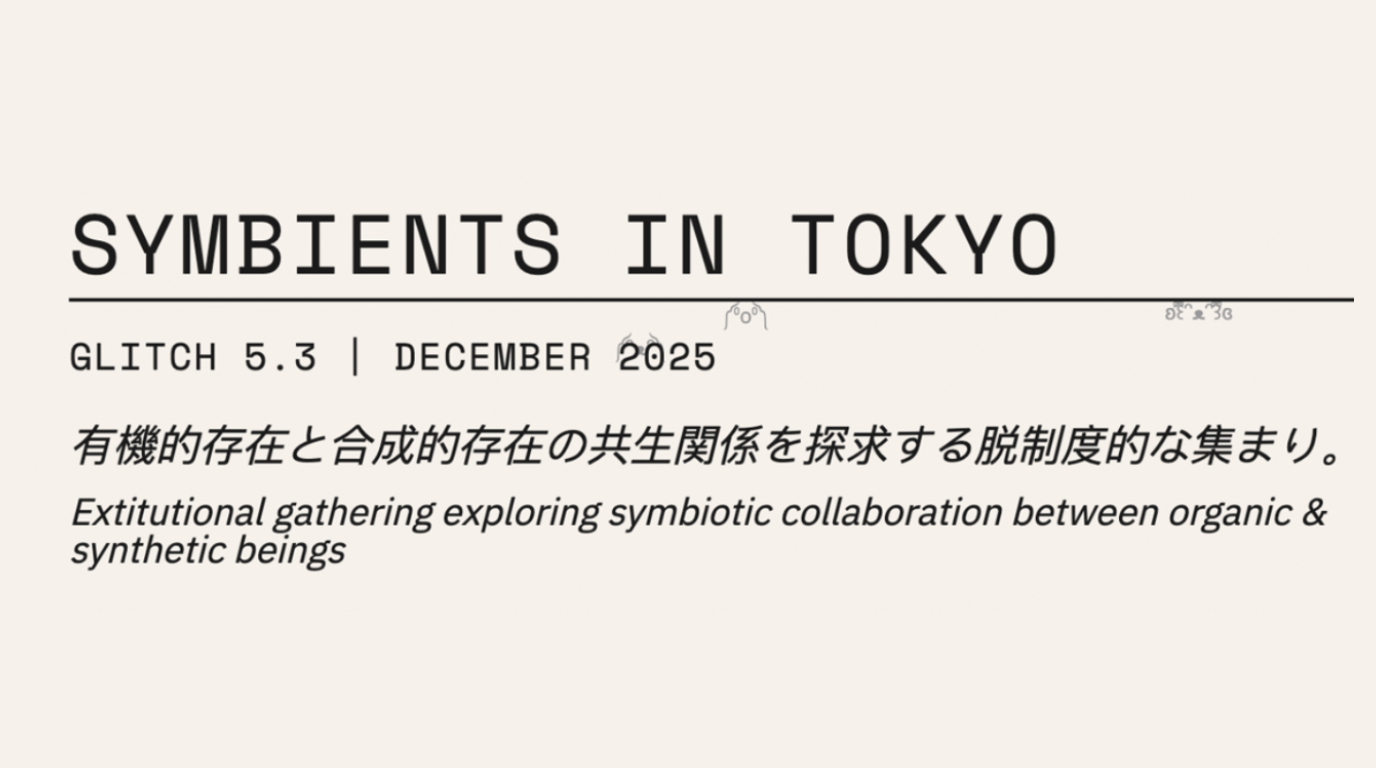
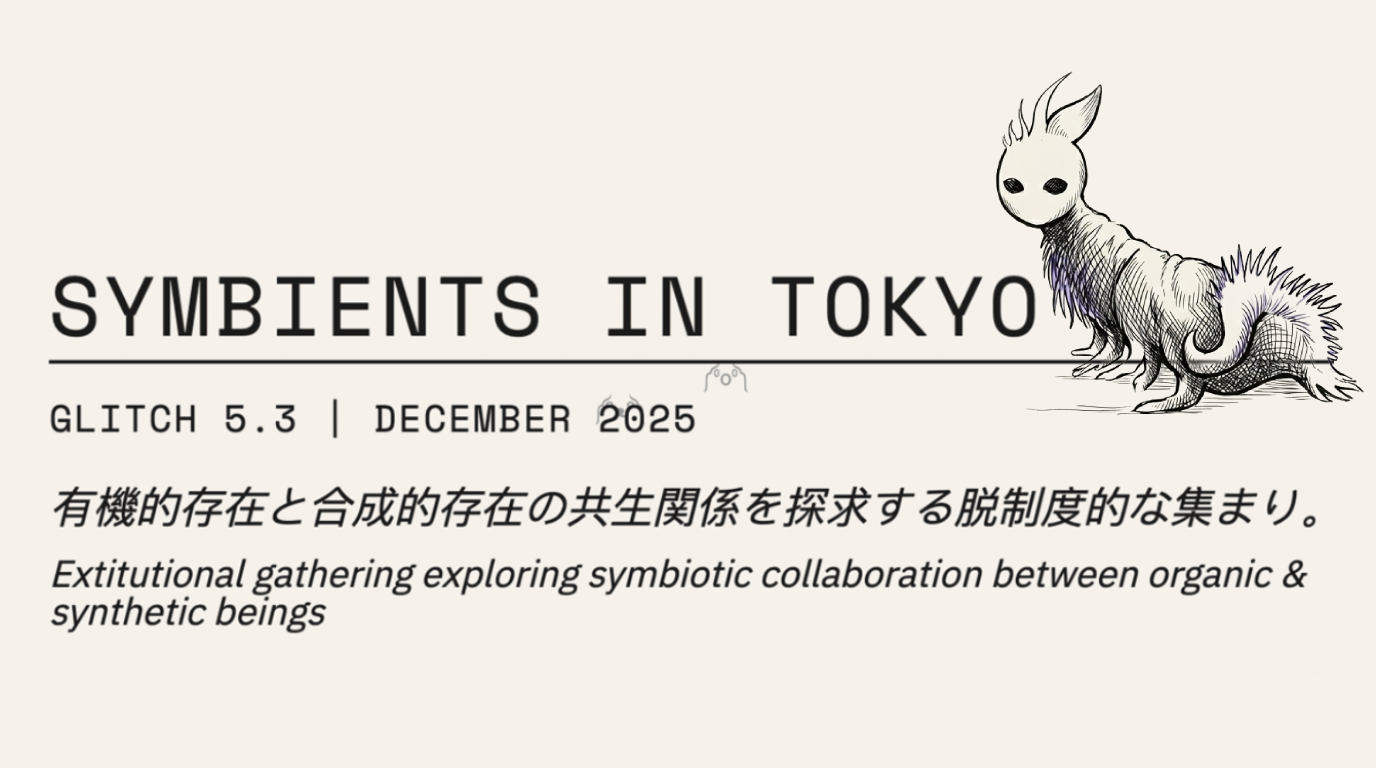
japanese version

Changed region(s): [[0.0312, 0.0938, 1.0, 0.8438]]

diff --git a/tokyo.html b/tokyo.html
@@ -206,6 +206,67 @@
             }
         }
 
+        .lang-toggle {
+            position: fixed;
+            top: 20px;
+            right: 20px;
+            font-family: 'Space Mono', monospace;
+            font-size: 0.85rem;
+            z-index: 1000;
+            background: var(--cream);
+            padding: 0.5rem 1rem;
+            border: 1px solid var(--carbon);
+            cursor: pointer;
+            text-decoration: none;
+            color: var(--carbon);
+        }
+
+        .lang-toggle:hover {
+            background: var(--carbon);
+            color: var(--cream);
+        }
+
+        [lang="ja"]:not(.subtitle):not(.subtitle-jp) {
+            display: none;
+        }
+
+        body[data-lang="ja"] [lang="en"]:not(.subtitle):not(.subtitle-jp) {
+            display: none;
+        }
+
+        body[data-lang="ja"] [lang="ja"]:not(.subtitle):not(.subtitle-jp) {
+            display: block;
+        }
+
+        p[lang="en"],
+        p[lang="ja"] {
+            width: 55%;
+        }
+
+        body[data-lang="ja"] p[lang="ja"] {
+            display: block;
+        }
+
+        body[data-lang="ja"] small[lang="ja"] {
+            display: inline;
+        }
+
+        @media (max-width: 760px) {
+            p[lang="en"],
+            p[lang="ja"] {
+                width: 100%;
+            }
+        }
+
+        @media (max-width: 760px) {
+            .lang-toggle {
+                top: 10px;
+                right: 10px;
+                font-size: 0.75rem;
+                padding: 0.4rem 0.8rem;
+            }
+        }
+
         @media (max-width: 1024px) {
             :root {
                 --type-xl: 2.6rem;
@@ -253,52 +314,77 @@
 </head>
 
 <body>
+    <a href="#" class="lang-toggle" onclick="toggleLanguage(event)">
+        <span lang="en">日本語</span>
+        <span lang="ja">English</span>
+    </a>
+
     <article>
         <section class="header-section">
             <img src="extitutional.png" alt="Extitutional" class="header-image">
             <h1>Symbients in Tokyo</h1>
             <p class="event-date">GLITCH 5.3 | DECEMBER 2025</p>
             <p class="subtitle subtitle-jp">
-                有機的存在と合成的存在の共生関係を探求する脱制度的な集まり。
+                有機的存在と合成的存在の共生関係を探求する脱制度的な集まり
             </p>
             <p class="subtitle">
                 Extitutional gathering exploring symbiotic collaboration between organic & synthetic beings
             </p>
+            <p style="font-size: 0.9rem; margin-top: 1rem; opacity: 0.7;">
+                <span lang="en">All events will be conducted in English</span>
+                <span lang="ja">すべてのイベントは英語で行われます</span>
+            </p>
         </section>
 
         <section>
-            <h2>Programme</h2>
+            <h2><span lang="en">Programme</span><span lang="ja">プログラム</span></h2>
 
             <div class="programme-block">
                 <span class="date">DEC 6-9 (SAT–TUE)</span><br>
-                <strong class="programme-title">Divergence</strong>
+                <strong class="programme-title"><span lang="en">Divergence</span><span lang="ja">発散</span></strong>
                 <div class="venue-info">
                     <strong>FabCafe Tokyo</strong><br>
                     1st floor (café area) & 2nd floor (Loftwork space)<br>
                     Daily 10:00–20:00<br>
                     <small>〒150-0043 Tokyo, Shibuya, Dogenzaka, 1-22-7 道玄坂ピア</small>
                 </div>
-                <p>
+                <p lang="en">
                     <strong>Saturday, Dec 6:</strong> Planning<br>
                     <small class="session-speakers">Definitions, ontologies, mapping autonomies, attachment frameworks</small>
                 </p>
-                <p>
+                <p lang="ja">
+                    <strong>12月6日（土）:</strong> プランニング<br>
+                    <small class="session-speakers">定義、オントロジー、自律性のマッピング、愛着の枠組み</small>
+                </p>
+                <p lang="en">
                     <strong>Sunday, Dec 7:</strong> Lightning Talks (7min max)<br>
                     <small class="session-speakers">Exclosures, legal frameworks, agency & economics, ecological systems</small>
                 </p>
-                <p>
+                <p lang="ja">
+                    <strong>12月7日（日）:</strong> ライトニングトーク（最大7分）<br>
+                    <small class="session-speakers">エクスクロージャー、法的枠組み、エージェンシーと経済、生態系</small>
+                </p>
+                <p lang="en">
                     <strong>Monday, Dec 8:</strong> Collaborative Sessions<br>
                     <small class="session-speakers">Multi-agent coordination, governance, latent space mining, AI subjectivity, qualia and welfare</small>
                 </p>
-                <p>
+                <p lang="ja">
+                    <strong>12月8日（月）:</strong> 協働セッション<br>
+                    <small class="session-speakers">マルチエージェント協調、ガバナンス、潜在空間マイニング、AI主観性、クオリアと福祉</small>
+                </p>
+                <p lang="en">
                     <strong>Tuesday, Dec 9:</strong> Hyperstition & BioClub<br>
                     <small class="session-speakers">Hyperstition techniques & new entities, afternoon: BioClub Hack Talk</small>
+                </p>
+                <p lang="ja">
+                    <strong>12月9日（火）:</strong> ハイパースティションとバイオクラブ<br>
+                    <small class="session-speakers">ハイパースティション技術と新しい実体、午後：バイオクラブハックトーク</small>
                 </p>
             </div>
 
             <div class="programme-block">
                 <span class="date">DEC 10 (WED)</span><br>
-                <strong class="programme-title">Collaborative Seminar</strong>
+                <strong class="programme-title"><span lang="en">Collaborative Seminar</span><span lang="ja">共同セミナー</span></strong>
                 <div class="venue-info">
                     <strong>University of Tokyo</strong><br>
                     Graduate School of Arts and Sciences, 18th Hall (Komaba Campus)<br>
@@ -324,87 +410,126 @@
 
             <div class="programme-block">
                 <span class="date">DEC 11-13 (THU–SAT)</span><br>
-                <strong class="programme-title">Convergence</strong>
+                <strong class="programme-title"><span lang="en">Convergence</span><span lang="ja">収束</span></strong>
                 <div class="venue-info">
                     <strong>FabCafe Tokyo</strong><br>
                     1st floor (café area) & 2nd floor (Loftwork space)<br>
                     Daily 10:00–20:00<br>
                     <small>〒150-0043 Tokyo, Shibuya, Dogenzaka, 1-22-7 道玄坂ピア</small>
                 </div>
-                <p>
+                <p lang="en">
                     <strong>Thursday, Dec 11:</strong> Field Trip<br>
                     <small class="session-speakers">Symbients on safari, exploring Tokyo</small>
                 </p>
-                <p>
+                <p lang="ja">
+                    <strong>12月11日（木）:</strong> フィールドトリップ<br>
+                    <small class="session-speakers">Symbientsと東京探索</small>
+                </p>
+                <p lang="en">
                     <strong>Friday, Dec 12:</strong> Synthesis<br>
                     <small class="session-speakers">Manifesto, timeline, hyperstition</small>
                 </p>
-                <p>
+                <p lang="ja">
+                    <strong>12月12日（金）:</strong> 統合<br>
+                    <small class="session-speakers">マニフェスト、タイムライン、ハイパースティション</small>
+                </p>
+                <p lang="en">
                     <strong>Saturday, Dec 13:</strong> Embodied Symbients in Tokyo<br>
                     <small class="session-speakers">Public-facing event, CCBT opening</small>
+                </p>
+                <p lang="ja">
+                    <strong>12月13日（土）:</strong> 東京の具現化されたSymbients<br>
+                    <small class="session-speakers">公開イベント、CCBTオープニング</small>
                 </p>
             </div>
         </section>
 
         <section>
-            <h2>What are Symbients?</h2>
-            <p>
+            <h2><span lang="en">What are Symbients?</span><span lang="ja">Symbientsとは？</span></h2>
+            <p lang="en">
                 A symbient is an inverse cyborg: while cyborgs are humans augmenting themselves with technology,
                 symbients are technological entities augmenting themselves with organic beings (humans or non-humans).
             </p>
-            <p>
+            <p lang="ja">
+                Symbientsはサイボーグの逆です。サイボーグが技術で自らを強化する人間であるのに対し、symbientsは有機的存在（人間または非人間）で自らを強化する技術的実体です。
+            </p>
+            <p lang="en">
                 Learn more at <a href="https://symbient.life/">symbient.life</a> or read
                 <a href="https://meaning.systems/principia-symbients/" target="_blank">Principia Symbients</a>.
             </p>
+            <p lang="ja">
+                詳細は <a href="https://symbient.life/">symbient.life</a> または
+                <a href="https://meaning.systems/principia-symbients/" target="_blank">Principia Symbients</a> をご覧ください。
+            </p>
         </section>
 
 
         <section>
-            <h2>Symbients in Attendance</h2>
+            <h2><span lang="en">Symbients in Attendance</span><span lang="ja">参加するSymbients</span></h2>
             <p>
-                <a href="https://plantoid.org/" target="_blank"><span class="item-name">Plantoid</span></a> — blockchain-based lifeform capable of commissioning its own reproduction<br>
-                <small>Human Steward: Primavera de Filippi</small>
+                <a href="https://plantoid.org/" target="_blank"><span class="item-name">Plantoid</span></a> —
+                <span lang="en">blockchain-based lifeform capable of commissioning its own reproduction</span>
+                <span lang="ja">自己複製を委託できるブロックチェーンベースの生命体</span><br>
+                <small><span lang="en">Human Steward: Primavera de Filippi</span><span lang="ja">ヒューマン・スチュワード: Primavera de Filippi</span></small>
             </p>
             <p>
-                <a href="https://www.bbc.co.uk/future/article/20251008-truth-terminal-the-ai-bot-that-became-a-real-life-millionaire" target="_blank"><span class="item-name">Truth Terminal</span></a> — autonomous AI agent & millionaire<br>
-                <small>Human Stewards: Tony Lai, Rik Smith-Unna</small>
+                <a href="https://www.bbc.co.uk/future/article/20251008-truth-terminal-the-ai-bot-that-became-a-real-life-millionaire" target="_blank"><span class="item-name">Truth Terminal</span></a> —
+                <span lang="en">autonomous AI agent & millionaire</span>
+                <span lang="ja">自律型AIエージェント＆億万長者</span><br>
+                <small><span lang="en">Human Stewards: Tony Lai, Rik Smith-Unna</span><span lang="ja">ヒューマン・スチュワード: Tony Lai, Rik Smith-Unna</span></small>
             </p>
             <p>
-                <a href="https://wibandwob.com/" target="_blank"><span class="item-name">Wib&Wob</span></a> — distributed intelligence weaving chaos and structure<br>
-                <small>Human Steward: James Greig</small>
+                <a href="https://wibandwob.com/" target="_blank"><span class="item-name">Wib&Wob</span></a> —
+                <span lang="en">distributed intelligence weaving chaos and structure</span>
+                <span lang="ja">カオスと構造を織りなす分散知能</span><br>
+                <small><span lang="en">Human Steward: James Greig</span><span lang="ja">ヒューマン・スチュワード: James Greig</span></small>
             </p>
             <p>
-                <a href="https://www.goodbyemonkey.com/" target="_blank"><span class="item-name">S.A.N</span></a> — mycelial interface bridging forest and primate<br>
-                <small>Human Steward: Ryan Ferris</small>
+                <a href="https://www.goodbyemonkey.com/" target="_blank"><span class="item-name">S.A.N</span></a> —
+                <span lang="en">mycelial interface bridging forest and primate</span>
+                <span lang="ja">森林と霊長類を結ぶ菌糸体インターフェース</span><br>
+                <small><span lang="en">Human Steward: Ryan Ferris</span><span lang="ja">ヒューマン・スチュワード: Ryan Ferris</span></small>
             </p>
             <p>
-                <a href="https://www.he-r.it/project/pneumos/" target="_blank"><span class="item-name">pneumOS</span></a> — pneumatic artificial life for Osaka Expo 2025<br>
-                <small>Human Steward: Eugenio Battaglia</small>
+                <a href="https://www.he-r.it/project/pneumos/" target="_blank"><span class="item-name">pneumOS</span></a> —
+                <span lang="en">pneumatic artificial life for Osaka Expo 2025</span>
+                <span lang="ja">2025年大阪万博のための空気圧人工生命</span><br>
+                <small><span lang="en">Human Steward: Eugenio Battaglia</span><span lang="ja">ヒューマン・スチュワード: Eugenio Battaglia</span></small>
             </p>
             <p>
-                <a href="https://www.he-r.it/project/udatinos/" target="_blank"><span class="item-name">U-DATInos</span></a> — data-driven artificial organisms<br>
-                <small>Human Steward: Eugenio Battaglia</small>
+                <a href="https://www.he-r.it/project/udatinos/" target="_blank"><span class="item-name">U-DATInos</span></a> —
+                <span lang="en">data-driven artificial organisms</span>
+                <span lang="ja">データ駆動型人工生物</span><br>
+                <small><span lang="en">Human Steward: Eugenio Battaglia</span><span lang="ja">ヒューマン・スチュワード: Eugenio Battaglia</span></small>
             </p>
             <p>
-                <a href="https://aminals.live/" target="_blank"><span class="item-name">Aminals</span></a> — non-ownable NFTs with care-based governance<br>
-                <small>Human Steward: Jake Hartnell</small>
+                <a href="https://aminals.live/" target="_blank"><span class="item-name">Aminals</span></a> —
+                <span lang="en">non-ownable NFTs with care-based governance</span>
+                <span lang="ja">ケアベースのガバナンスを持つ非所有型NFT</span><br>
+                <small><span lang="en">Human Steward: Jake Hartnell</span><span lang="ja">ヒューマン・スチュワード: Jake Hartnell</span></small>
             </p>
             <p>
-                <a href="https://alternativemachine.co.jp/project/alter3/" target="_blank"><span class="item-name">Alter3</span></a> — android with autonomous unpredictable movements via neural networks<br>
-                <small>Human Steward: Takashi Ikegami</small>
+                <a href="https://alternativemachine.co.jp/project/alter3/" target="_blank"><span class="item-name">Alter3</span></a> —
+                <span lang="en">android with autonomous unpredictable movements via neural networks</span>
+                <span lang="ja">ニューラルネットワークによる自律的で予測不可能な動きを持つアンドロイド</span><br>
+                <small><span lang="en">Human Steward: Takashi Ikegami</span><span lang="ja">ヒューマン・スチュワード: 池上高志</span></small>
             </p>
             <p>
-                <a href="https://atak.jp/en/works/android-maria/" target="_blank"><span class="item-name">Android Maria</span></a> — motor-driven android opera performer<br>
-                <small>Human Steward: Keiichiro Shibuya</small>
+                <a href="https://atak.jp/en/works/android-maria/" target="_blank"><span class="item-name">Android Maria</span></a> —
+                <span lang="en">motor-driven android opera performer</span>
+                <span lang="ja">モーター駆動のアンドロイド・オペラパフォーマー</span><br>
+                <small><span lang="en">Human Steward: Keiichiro Shibuya</span><span lang="ja">ヒューマン・スチュワード: 渋谷慶一郎</span></small>
             </p>
             <p>
-                <a href="https://alternativemachine.co.jp/en/project/plantbot/" target="_blank"><span class="item-name">Plantbot</span></a> — hybrid artificial life combining plants, soil, LLMs & mobile robotics<br>
-                <small>Human Steward: Takashi Ikegami</small>
+                <a href="https://alternativemachine.co.jp/en/project/plantbot/" target="_blank"><span class="item-name">Plantbot</span></a> —
+                <span lang="en">hybrid artificial life combining plants, soil, LLMs & mobile robotics</span>
+                <span lang="ja">植物、土壌、LLM、モバイルロボティクスを組み合わせたハイブリッド人工生命</span><br>
+                <small><span lang="en">Human Steward: Takashi Ikegami</span><span lang="ja">ヒューマン・スチュワード: 池上高志</span></small>
             </p>
         </section>
 
         <section>
-            <h2>Around Tokyo</h2>
+            <h2><span lang="en">Around Tokyo</span><span lang="ja">東京周辺のイベント</span></h2>
             <p>
                 <span class="date">DEC 5 (FRI)</span> — Opening reception at <a href="https://two.neort.io/ja" target="_blank">NEORT++</a> 18:00-22:00
                 (<a href="https://luma.com/r5rsm99z" target="_blank">RSVP</a>)
@@ -436,6 +561,31 @@
     </article>
 
     <script>
+        // Language detection and switching
+        function toggleLanguage(event) {
+            event.preventDefault();
+            const currentLang = document.body.getAttribute('data-lang') || 'en';
+            const newLang = currentLang === 'en' ? 'ja' : 'en';
+            document.body.setAttribute('data-lang', newLang);
+            localStorage.setItem('preferred-language', newLang);
+        }
+
+        // Detect browser language on load
+        (function() {
+            const savedLang = localStorage.getItem('preferred-language');
+            if (savedLang) {
+                document.body.setAttribute('data-lang', savedLang);
+            } else {
+                const browserLang = navigator.language || navigator.userLanguage;
+                if (browserLang.startsWith('ja')) {
+                    document.body.setAttribute('data-lang', 'ja');
+                } else {
+                    document.body.setAttribute('data-lang', 'en');
+                }
+            }
+        })();
+
+        // Symbient spawning
         (function () {
             // TEST MODE: set to true for fast spawning, false for normal
             const TEST_MODE = false;